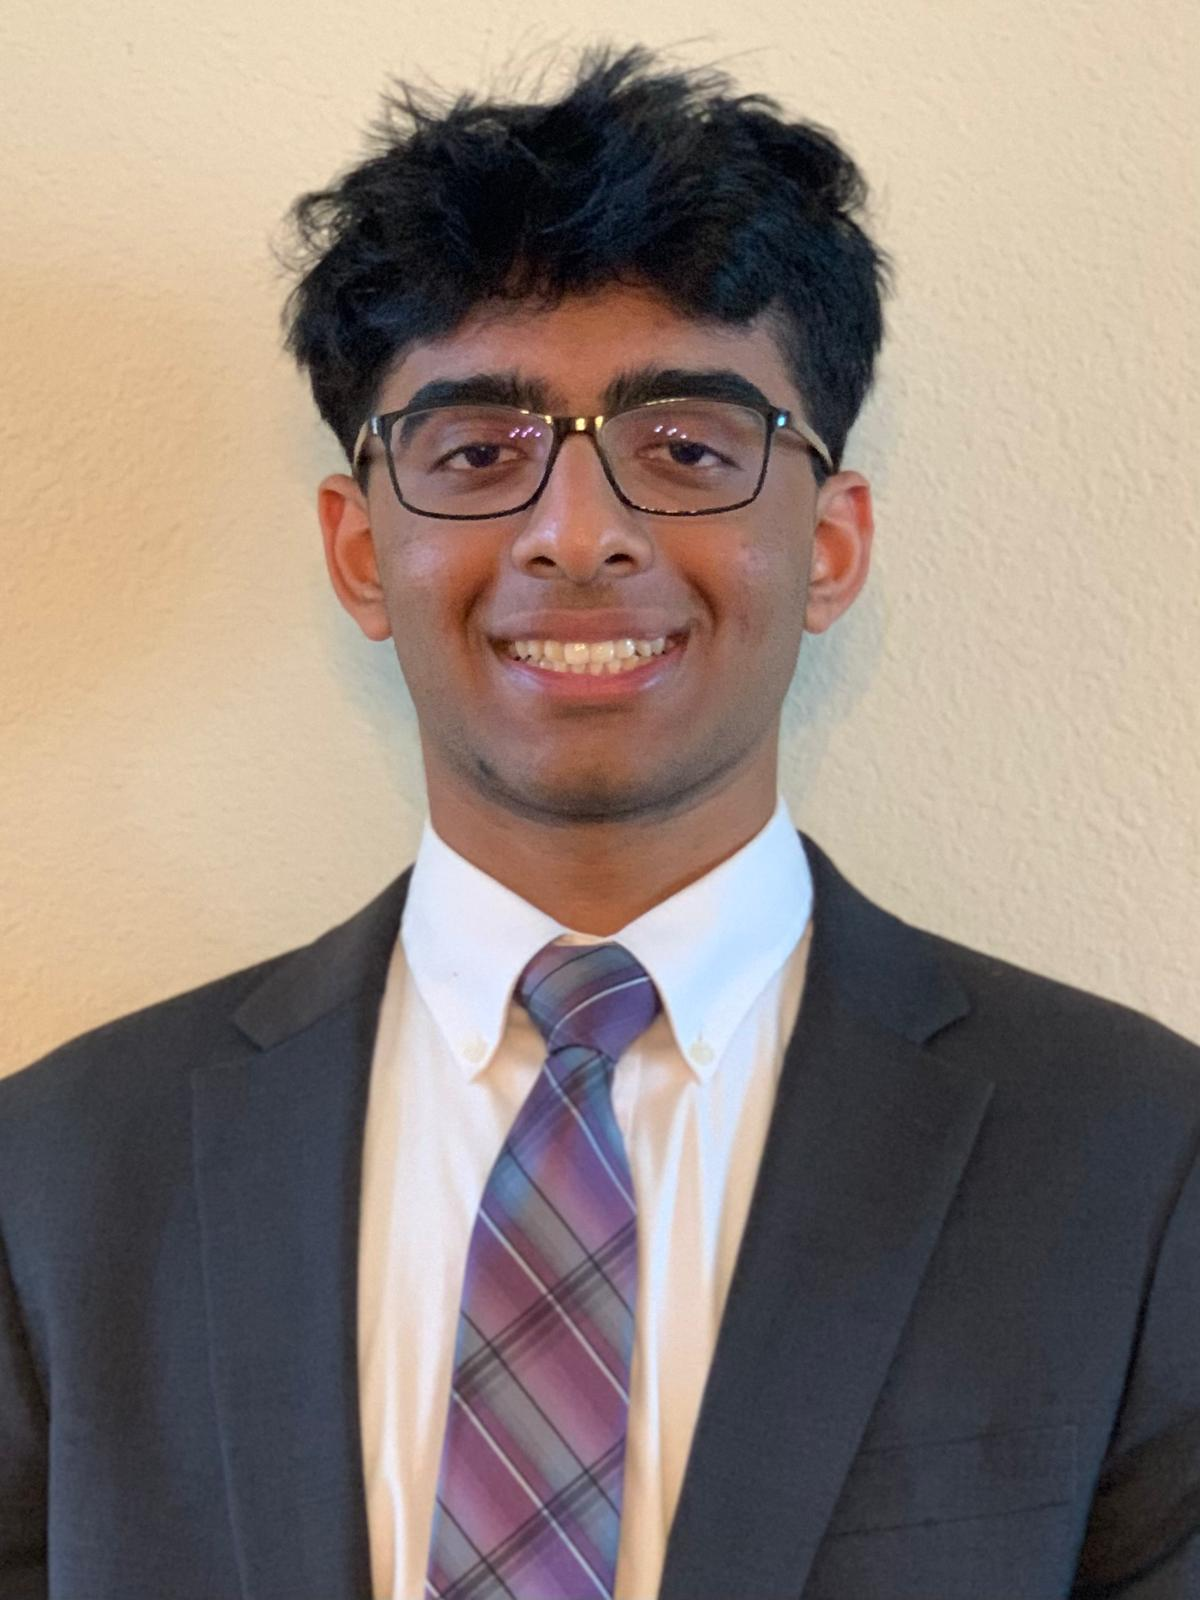
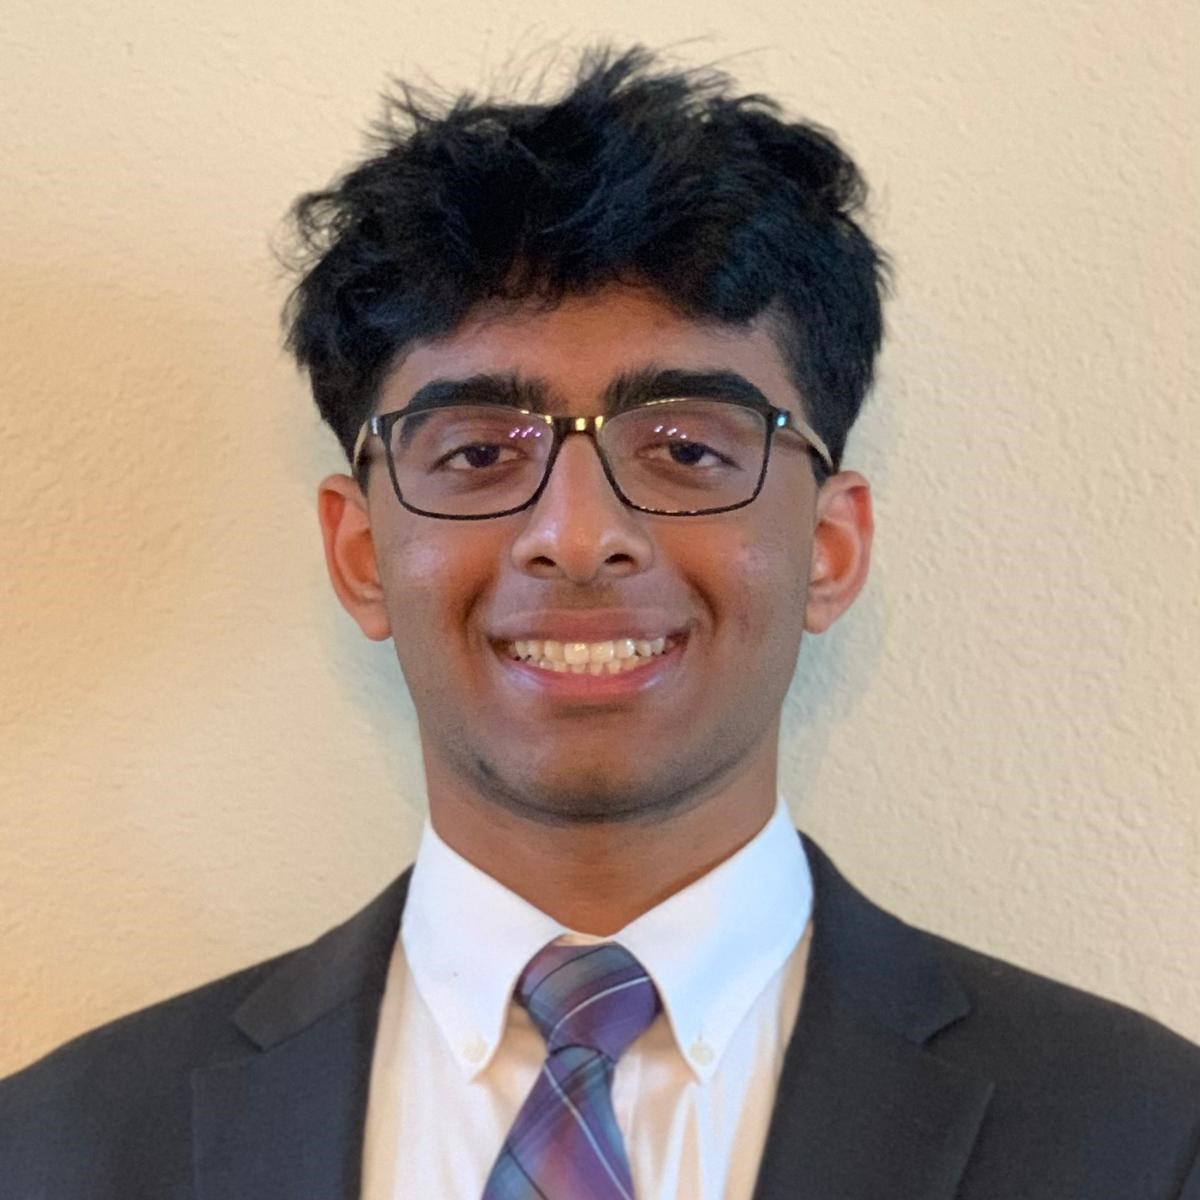
add pictures and schools

diff --git a/src/routes/leaders/+page.svelte b/src/routes/leaders/+page.svelte
@@ -3,12 +3,12 @@
 
 	const leaders = [
 		['Harish Balamurugan', 'Executive Director / CEO', 'harish.jpg'],
-		['Anirudh', 'Executive Director / COO', ''],
+		['Anirudh', 'Executive Director / COO', 'anirudh.jpg'],
 		['Vedh Amara', 'CFO', 'vedh.jpg'],
 		['Suhas Kondu', 'CMO', 'suhas.jpg'],
-		['Mithun Kutuva', 'CGO', ''],
-		['Pranav Pakanati', 'CTO', 'pranav.jpeg'],
-		['Srikar Koppana', 'Secretary', ''],
+		['Mithun Kutuva', 'CGO', 'mithun.jpg'],
+		['Pranav Pakanati', 'CTO', 'pranav.jpg'],
+		['Srikar Koppana', 'Secretary', 'srikar.jpg'],
 	];
 </script>
 
@@ -64,6 +64,8 @@
             img, .placeholder {
                 width: 20rem;
                 max-width: 85vw;
+                aspect-ratio: 1;
+                object-fit: cover;
             }
             
             .placeholder {

diff --git a/src/routes/chapters/+page.svelte b/src/routes/chapters/+page.svelte
@@ -38,7 +38,13 @@
         ['', 'Suncoast HS', 'Riviera Beach, FL'],
         ['', 'Jacobs HS', 'Algonquin, IL'],
         ['', 'Eastview HS', 'Apple Valley, MN'],
-    ]
+        ['', 'Rockhill HS', 'Prosper, TX'],
+        ['', 'Nequa Valley HS', 'Naperville, IL'],
+        ['', 'Vista Ridge HS', 'Cedar Park, TX'],
+        ['', 'Lynville-Sully HS', 'Sully, IA'],
+        ['', 'Downington Stem Academy', 'Downington, PA'],
+        ['', 'Morris Catholic', 'Denville, NJ']
+    ];
 </script>
 
 <svelte:head>
